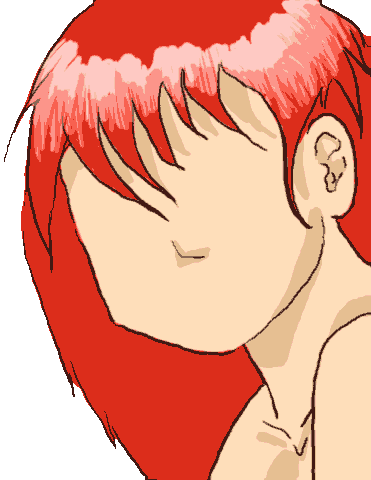
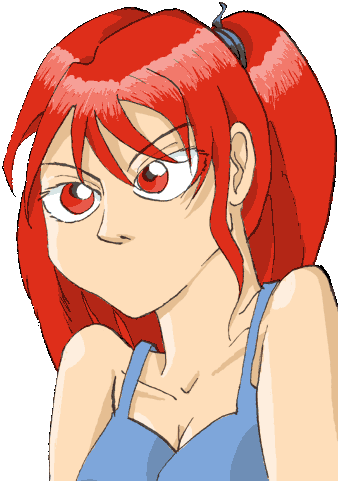
un peu plus de synchro reseau, kaori redessinee
git-svn-id: svn+ssh://src.fovea.cc/svn/flobopuyo/trunk@516 053fdb51-1f17-0410-be66-d00040120cd6

diff --git a/PuyoNetworkStarter.cpp b/PuyoNetworkStarter.cpp
@@ -57,13 +57,13 @@ PuyoNetworkGameWidget::~PuyoNetworkGameWidget()
 
 void PuyoNetworkGameWidget::cycle()
 {
-    mbox.idle();
     if (!syncMsgSent) {
         sendSyncMsg();
         syncMsgSent = true;
     }
     if (syncMsgReceived)
         PuyoGameWidget::cycle();
+    mbox.idle();
 }
 
 void PuyoNetworkGameWidget::onMessage(Message &message)
@@ -78,6 +78,9 @@ void PuyoNetworkGameWidget::onMessage(Message &message)
             break;
         case PuyoMessage::kGameResume:
             setScreenToResumed(false);
+            break;
+        case PuyoMessage::kGameNext:
+            actionAfterGameOver(false);
             break;
         default:
             break;
@@ -108,6 +111,20 @@ void PuyoNetworkGameWidget::setScreenToResumed(bool fromControls)
         delete message;
     }
     PuyoGameWidget::setScreenToResumed(fromControls);
+}
+
+void PuyoNetworkGameWidget::actionAfterGameOver(bool fromControls)
+{
+    fprintf(stderr, "ACTIONAFTERGAMEOVER\n");
+    // If the resume is from a controller, we have to send the resume information to the other peer
+    if (fromControls) {
+        ios_fc::Message *message = mbox.createMessage();
+        message->addInt     (PuyoMessage::TYPE,   PuyoMessage::kGameNext);
+        message->addBoolProperty("RELIABLE", true);
+        message->send();
+        delete message;
+    }
+    PuyoGameWidget::actionAfterGameOver(fromControls);
 }
 
 void PuyoNetworkGameWidget::sendSyncMsg()

diff --git a/PuyoStarter.cpp b/PuyoStarter.cpp
@@ -366,11 +366,16 @@ void PuyoGameWidget::eventOccured(GameControlEvent *event)
 bool PuyoGameWidget::backPressed()
 {
     if ((gameover || abortedFlag) && once) {
-        if (gameOverAction)
-            gameOverAction->action();
+        actionAfterGameOver(true);
         return true;
     }
     return false;
+}
+
+void PuyoGameWidget::actionAfterGameOver(bool fromControls)
+{
+    if (gameOverAction)
+            gameOverAction->action();
 }
 
 void PuyoGameWidget::setScreenToPaused(bool fromControls)

diff --git a/PuyoStarter.h b/PuyoStarter.h
@@ -99,6 +99,7 @@ public:
     PuyoGameScreen *associatedScreen;
     virtual void setScreenToPaused(bool fromControls);
     virtual void setScreenToResumed(bool fromControls);
+    virtual void actionAfterGameOver(bool fromControls);
 protected:
     SDL_Painter painter;
     PuyoLevelTheme *attachedLevelTheme;

diff --git a/PuyoNetworkStarter.h b/PuyoNetworkStarter.h
@@ -49,6 +49,7 @@ public:
     void onMessage(Message &);
     void setScreenToPaused(bool fromControls);
     void setScreenToResumed(bool fromControls);
+    void actionAfterGameOver(bool fromControls);
 private:
     void sendSyncMsg();
     AnimatedPuyoSetTheme &attachedPuyoThemeSet;

diff --git a/PuyoMessageDef.h b/PuyoMessageDef.h
@@ -9,7 +9,8 @@ enum {
     kGameOver    = 1,
     kGameStart   = 2,
     kGamePause   = 3,
-    kGameResume  = 4
+    kGameResume  = 4,
+    kGameNext    = 5
 };
 
 static const char *TYPE          = "TYPE";
